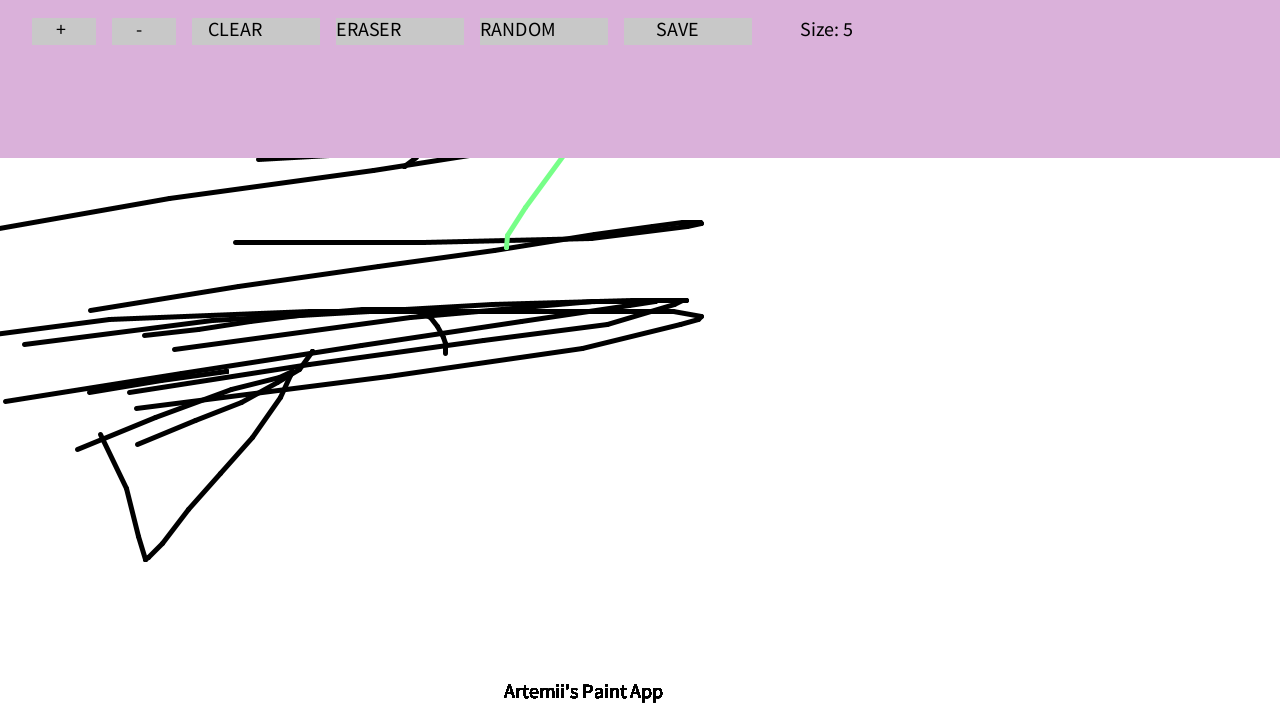
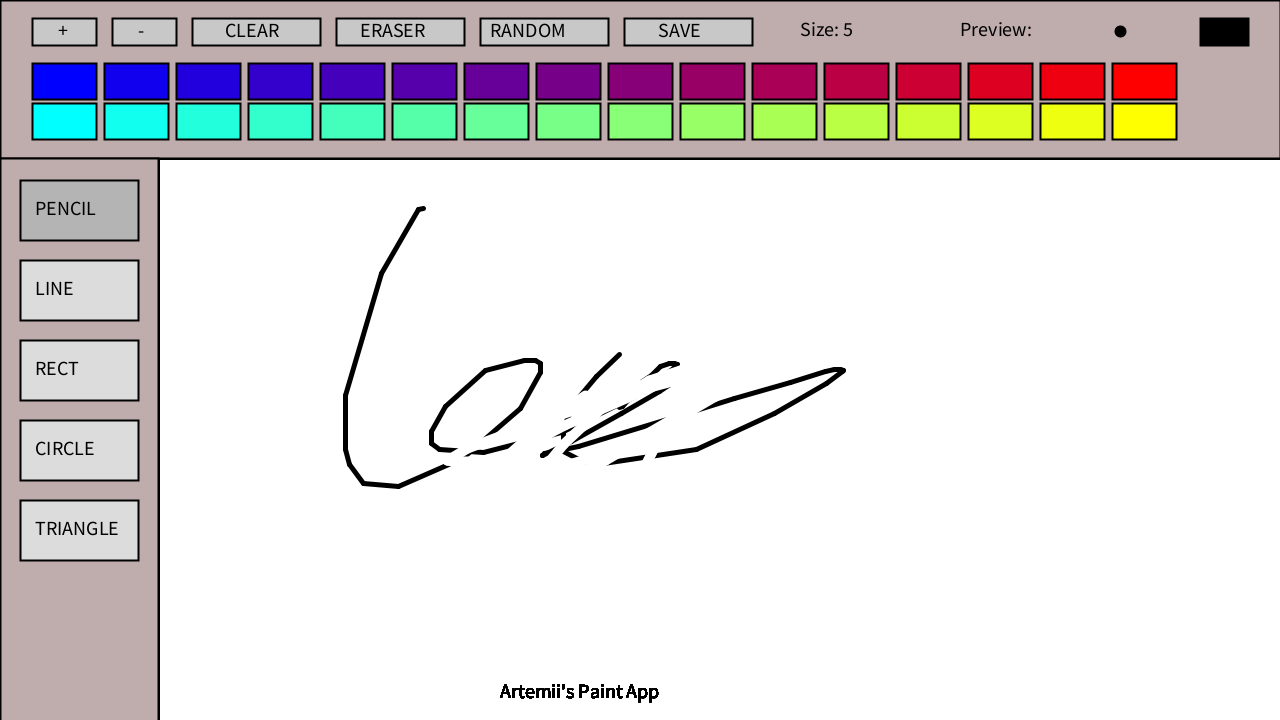
more work on proj

diff --git a/CW011126.py b/CW011126.py
@@ -39,17 +39,27 @@ def draw_ui():
     fill(0)
     text("+", 58, 37)
     text("-", 138, 37)
-    text("CLEAR", 225, 37)
+    text("CLEAR", 225, 37)  
     text("ERASER", 360, 37)
     text("RANDOM", 490, 37)
     text("SAVE", 658, 37)
+    
+    text_size(15)
+    text("(↑)", 75, 40)
+    text("(↓)", 155, 40)
+    text("(c)", 295, 40)  
+    text("(e)", 440, 40)   
+    text("(r)", 585, 40)   
+    text("(s)", 725, 40)
+    text_size(20)
 
     text("Size: " + str(brush["stroke"]), 800, 36)
 
     if is_mouse_pressed and mouse_button == LEFT:
 
         if 32 < mouse_x < 96 and 18 < mouse_y < 45:
-            brush["stroke"] += 1
+            if brush["stroke"] < 100:
+                brush["stroke"] += 1
 
         if 112 < mouse_x < 176 and 18 < mouse_y < 45:
             if brush["stroke"] > 1:
@@ -73,6 +83,13 @@ def draw_ui():
 
     draw_color_palette()
     draw_left_panel()
+    text_size(15)
+    text("(1)", 120, 200)
+    text("(2)", 120, 300)
+    text("(3)", 120, 400)
+    text("(4)", 120, 450)
+    text("(5)", 120, 550)
+    text_size(20)
 
 
 def draw_color_palette():
@@ -216,7 +233,8 @@ def draw_brush():
         push_matrix()
         translate(mouse_x, mouse_y)
         rotate(random(TWO_PI))
-        begin_shape() points1 = int(random(5, 12))
+        begin_shape()
+        points1 = int(random(5, 12))
         for i in range(points1):
             angle = TWO_PI / points1 * i
             radius = random(10, 60)
@@ -225,3 +243,40 @@ def draw_brush():
             vertex(x, y)
         end_shape(CLOSE)
         pop_matrix()
+
+
+def key_pressed():
+    if key == CODED:
+        if key_code == UP:
+            if brush["stroke"] < 100:
+                brush["stroke"] += 1
+        elif key_code == DOWN:
+            if brush["stroke"] > 1:
+                brush["stroke"] -= 1
+    elif key == 'c': 
+        background(255)
+    elif key == 'e':  
+        brush["eraser"] = True
+        brush["tool"] = "pencil"
+    elif key == 'r': 
+        brush["color1"] = random(255)
+        brush["color2"] = random(255)
+        brush["color3"] = random(255)
+        brush["eraser"] = False
+    elif key == 's': 
+        save_frame("my_drawing.png")
+    elif key == '1': 
+        brush["tool"] = "pencil"
+        brush["eraser"] = False
+    elif key == '2': 
+        brush["tool"] = "line"
+        brush["eraser"] = False
+    elif key == '3': 
+        brush["tool"] = "rect"
+        brush["eraser"] = False
+    elif key == '4':  
+        brush["tool"] = "circle"
+        brush["eraser"] = False
+    elif key == '5': 
+        brush["tool"] = "triangle"
+        brush["eraser"] = False
